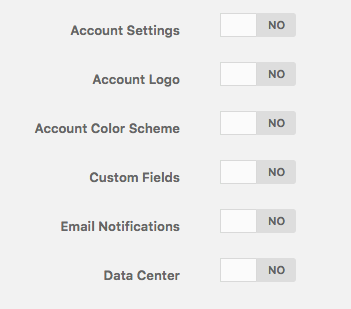
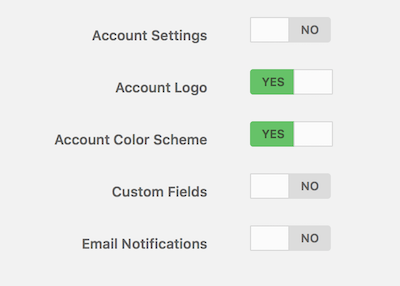
Update "Creating a Sub Account" KB

diff --git a/Accounts & Users/creating-a-sub-account.md b/Accounts & Users/creating-a-sub-account.md
@@ -8,66 +8,60 @@
 
 CenturyLink Cloud supports the ability to create Sub accounts, which fall under a Parent account. Sub accounts have many advantages:
 
-* They are hierarchal - user permissions flow down, not up nor sideways 
-* They may be billed separately or to the parent account 
-* They may share Parent networks or have their own 
+* They are hierarchal - user account permissions flow from Parent account to Sub account, not up nor sideways 
+* They may be billed separately or to the Parent account 
+* They may share private networks from the Parent account or have their own 
 * Settings are inherited
-
-### Audience
-
-Customers
 
 ### Creating a Sub Account
 
-* In CenturyLink Cloud’s Control Portal drop-down menu, select Account > Accounts.
-* Click “+ create new account”
+* On the left hand side of CenturyLink Cloud’s Control Portal, select Settings -> Sub Accounts.
+* Click the `+ create new account` button
 
-### Company Info
+### Organization Info
 
 ![sub-alias](../images/create-sub-account-parent-info.png)
 
-Change Parent account if desired. For example, if you want this account to be a Sub account of a Sub account.
+Select the desired Parent account. For example, if you want this account to be a Sub account of a Sub account, you would need to select the Sub account you would like to have the new account nest under.
 
 Fill in the appropriate Business name, etc.
 
-Input an Account Alias of your choice. This is a string of 2-4 alphanumeric characters which is used to identify your account and relate servers to that account by naming convention. They are globally unique so there are no duplicate aliases allowed. This is a required field. Note that an account alias cannot be reused, even after deletion of the original account with that alias.
+Input an Account Alias of your choice. This is a required field. This is a string of 2-4 alphanumeric characters which is used to identify your account and relate servers to that account by naming convention. They have to be globally unique so no duplicate aliases are allowed. Note that an account alias cannot be reused, even after deletion of the original account with that alias.
 
 Full Address and Phone fields are required.
 
-### Company Info
+Further down in the page you wil see this section:
 
 ![sub-billing](../images/create-sub-account-billing.png)
 
-You may input a Default Primary DNS and a Default Secondary DNS IP address. This will be the DNS server value input into your IPv4 settings when building a server. You may select your own environment DNS servers, preferred public DNS servers, or the default datacenter DNS servers (172.17.1.26, 172.17.1.27) or leave it blank, in which case it will default to the aforementioned Datacenter DNS servers, which do allow for external DNS lookup.
+You may input a Default Primary DNS and a Default Secondary DNS IP address. This will be the DNS servers used when building a server in the platform.  Input IPv4 IP addresses into these fields. You may list your own environment's DNS servers, preferred public DNS servers, or the default CenturyLink Cloud datacenter DNS servers (172.17.1.26, 172.17.1.27). If you leave it blank, it will default to using the CenturyLink Cloud Datacenter DNS servers, which do allow for external DNS lookup.
 
 
 Bill to: Each Sub account generates an invoice. You have the option of submitting the invoice to the Parent account, or bill the Sub account directly.
 
 Payment Type: Input the payment type for the Sub account.
 
-Share Parent Networks: This allows the Sub account to use the networks present in its Parent account. If this is set to "NO",  the Sub account will receive unique IP ranges when deploying servers and/or networks.
+Share Parent Networks: This allows the Sub account to use the networks present in its Parent account. If this is set to "NO", the Sub account will receive unique IP ranges when deploying servers and/or networks.
 
 ### Settings
 
 ![sub settings](../images/create-sub-account-settings.png)
 
-All settings will be inherited from the Parent. Go to "Yes any of the settings in this section will make that section visible in the sub account". The users in that Sub account will then be able to override inherited settings. Leaving the sections set to "OFF" will hide the menu for that section in the Sub account, preventing the settings from being overridden. In our example Sub account, users will be able to change the Account Logo and Account Color Scheme from what was inherited. All other menus will be hidden.
+All settings will be inherited from the Parent. Selecting "Yes" to any of the settings in this section will make that section visible in the Sub account. The users in that Sub account will then be able to override inherited settings. Leaving the sections set to "No" will hide the menu for that section in the Sub account, preventing the settings from being overridden. In our example Sub account, users will be able to change the Account Logo and Account Color Scheme from what was inherited. All other menus will be hidden.
 
 ### Data Center
 
 ![sub data center.png](../images/create-sub-account-datacenter.png)
 
-Select the datacenter that you want the new account to be homed to. This does not limit your ability to build in any other datacenter. Your VPN server will be created here. You will not be able to hide or change the Primary datacenter.
+Select the home datacenter for the new Sub account. This selection does not limit your ability to build in any other datacenter. Your VPN server will be created in this datacenter so you may wish to pick a datacenter close to you. You will not be able to hide or change the Primary datacenter after the Sub account has been created.
 
-Click "Create" to create the Sub account as configured.
+Click the "Create Sub Account" button to create the Sub account as configured. If you get any errors (i.e. the alias is in use, or missed any required fields), correct the errors and click the "Create" button again.
 
-If the account is created successfully, you will be returned to the Parent account (the one you were logged into). You can navigate to the new Sub account via the Account drop-down to the left of the menu.
-
-If you get any errors (i.e. the alias is in use, or missed any required fields), correct them and click Create again.
+Once the account is created successfully, you will be returned to the Parent account (the one you were logged into). You can navigate to the new Sub account using the account drop-down. Click on your account's name and alias located at the top left hand corner of the Control Portal screen.  This will open a dropdown list containing all of your Sub accounts.  Select the Sub account desired and it will change the account context to that Sub account.
 
 **Edit Settings:**
 
-After the Sub Account is created you can edit the settings. Any of these settings may be modified in the future by logging into the Parent Account, then going to Account > Sub accounts and selecting the Sub account for which you wish to edit settings. You will be sent to the “Sub Account Settings” page.
+After the Sub Account is created, you can edit the Sub account's settings. Any of these settings may be modified in the future by logging into the Parent Account, then navigating to Settings -> Sub accounts page and selecting the Sub account for which you wish to edit settings. You will be sent to the “Sub Account Settings” page.
 
 ![sub edit settings.png](../images/create-sub-account-sub-settings.png)
 
@@ -83,11 +77,11 @@ To add new users to the sub account:
 
 1. In the drop-down in the top left, select the Sub account for which you would like to add a user.
 
-2. Go to Account > Users and click “+ Create New User”.
+2. Go to Settings -> Users and click the “+ New User” button.
 
 3. Fill in required information.
 
-4. Permissions can then be administered via the Account > Permissions tab.
+4. Permissions can then be administered via Settings -> Permissions.
 
 5. Note that user permissions are hierarchical, so a user may access the account to which they are assigned, and that account’s Sub accounts, but not a Parent account nor any other Sub account on the same level.
 
@@ -99,8 +93,8 @@ Allow a few minutes for the new account to fully replicate and try again.
 
 **I don’t need this sub account any longer, how do I delete it?**
 
-Account > Info. Click on “Request to close” link at bottom right.
+Settings -> Info. Click on “Request to close” link at bottom right corner of the page.
 
 **I disabled a sub account, but still see it in my sub accounts list.**
 
-A disabled Sub account still appears in the list, so you have the option to re-enable it. Entering the Sub account via the drop-down at the top left, and going to account > info and clicking the “Request to close” link will start the process to remove the account.
+A disabled Sub account still appears in the list, so you have the option to re-enable it. Entering the Sub account via the drop-down at the top left, and going to Settings -> info and clicking the “Request to close” link will start the process to remove the account.
